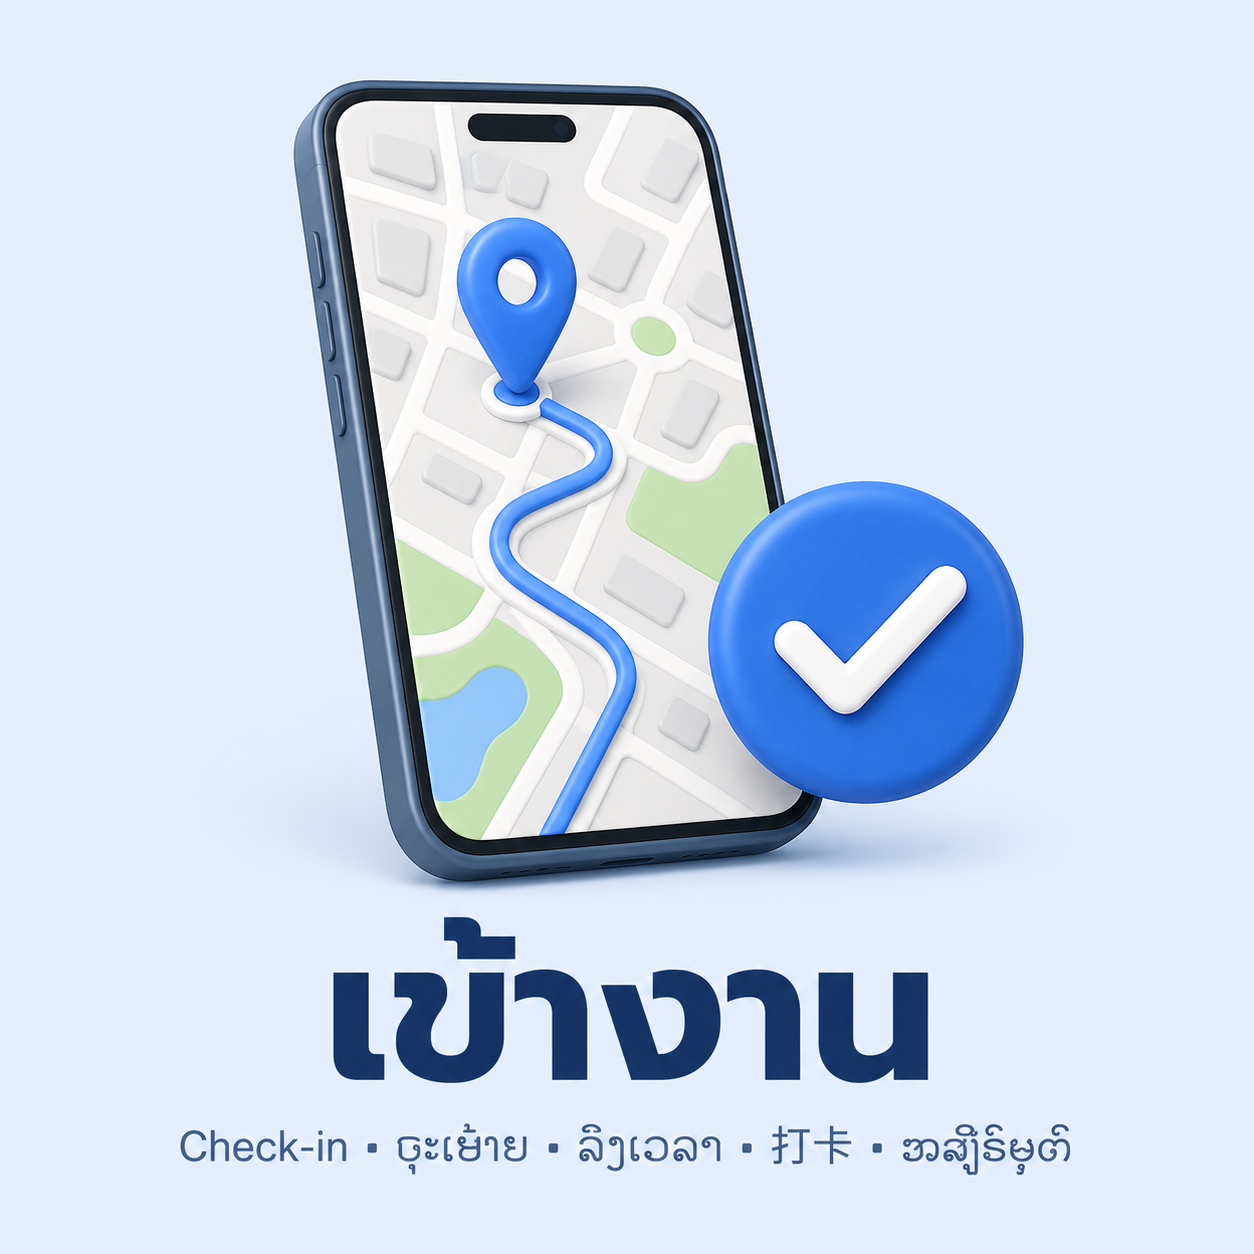
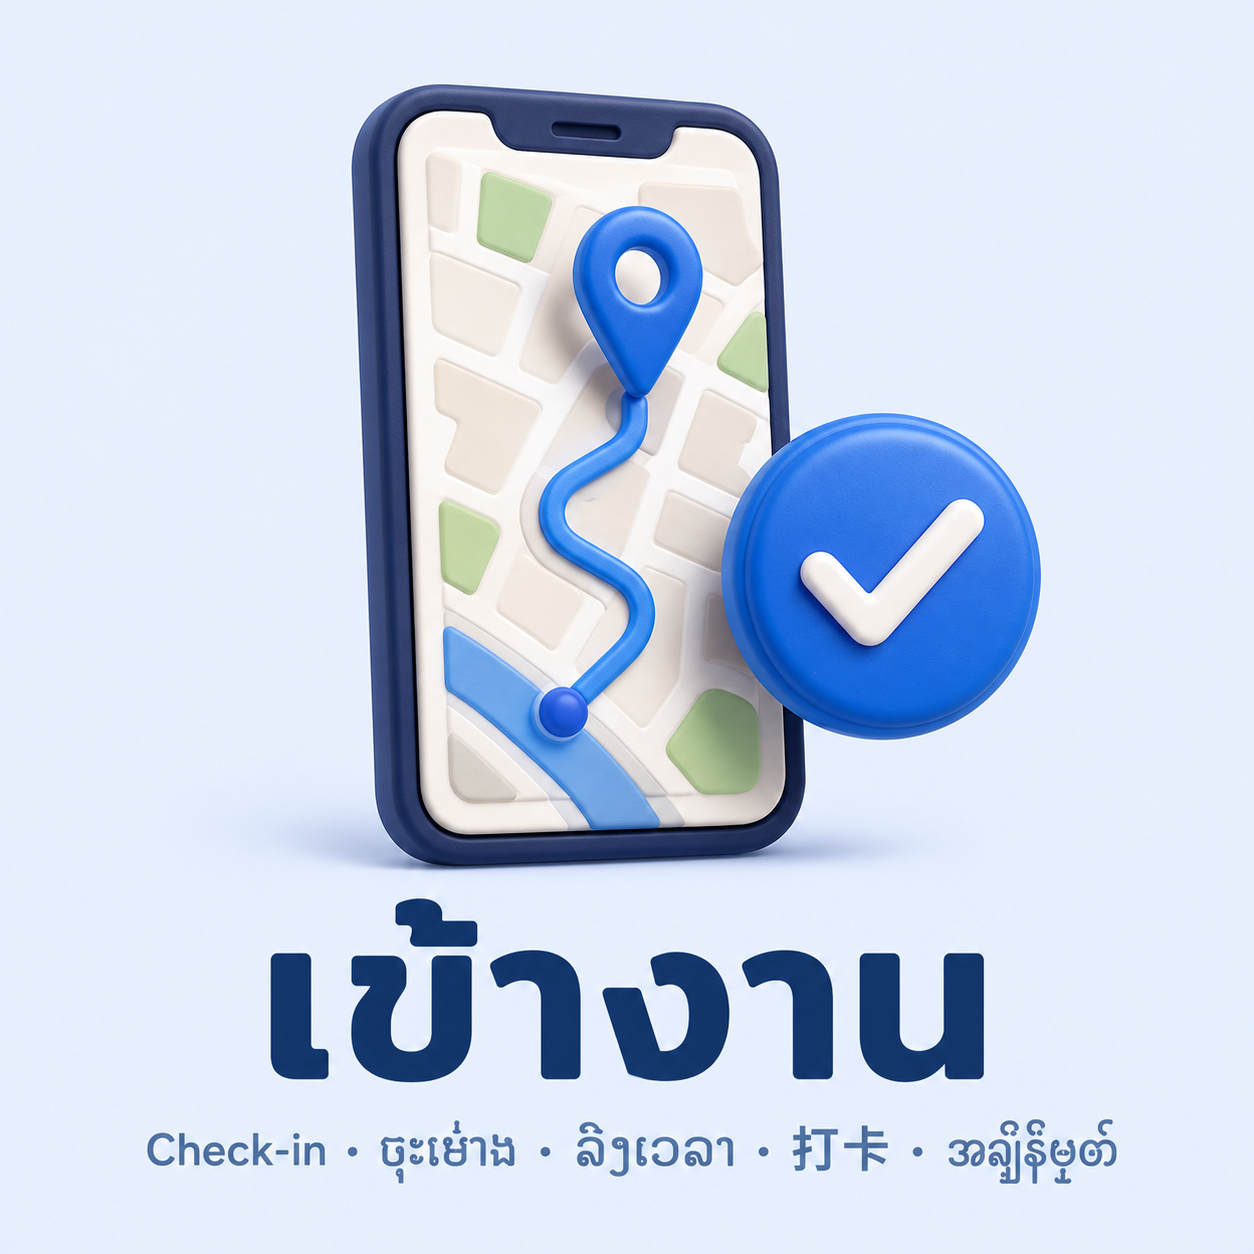
chore(assets): final rich-menu artwork, SSO cap 17500 seed, admin LINE unlink script
- replace placeholder admin rich menu with final designs (assets/rich-menu/final)
- seed: SSO salary cap 15000→17500 (amount cap 750→875)
- scripts/unlink-admin-line.mjs: one-off ops tool to unlink LINE from admin-role users (dry-run by default)

Changed region(s): [[0.0933, 0.0622, 0.9019, 0.9641]]

diff --git a/prisma/seed.ts b/prisma/seed.ts
@@ -126,8 +126,8 @@ const SEED = {
   // /admin/settings/payroll-config (Phase 3).
   payrollConfig: {
     ssoRate: '0.05',
-    ssoSalaryCap: '15000',
-    ssoAmountCap: '750',
+    ssoSalaryCap: '17500',
+    ssoAmountCap: '875',
     otMultiplier: '1.5',
     cutoffDay: 25,
     absentDeductionPerDay: '500',